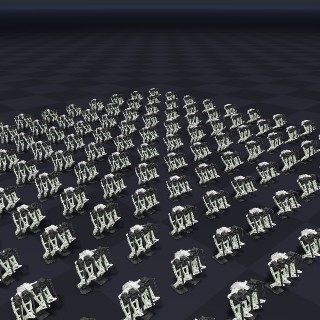
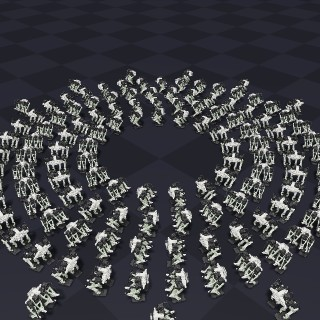
Make the DR Legs robots walk in rings
The ik_dr_legs robots now walk single file around concentric rings,
alternating planted and swinging feet. The cuNLS backend's cost
tolerance goes from 1e-12 to 1e-10 (about 10 um): robots a few meters
from the origin reach the float32 rounding of forward kinematics at the
tighter tolerance and kept iterating, which cost 47 ms instead of
6.5 ms for 128 walking robots.

diff --git a/newton/examples/ik/example_ik_dr_legs.py b/newton/examples/ik/example_ik_dr_legs.py
@@ -3,17 +3,19 @@
 
 """Example IK DR Legs (closed-loop biped legs)
 
-Whole-body inverse kinematics of DR Legs, a biped whose legs are serial-parallel linkages with
-three closed kinematic loops each, solved for a grid of robots in one batch.
+Whole-body inverse kinematics of DR Legs, a biped from Disney Research whose legs are
+serial-parallel linkages with three closed kinematic loops each, solved for many robots in one
+batch.
 - The asset's articulation tree reaches every body; six revolute joints close the loops.
-- The feet stay planted while the pelvis squats, sways and twists; the robots are staggered in
-  time.
+- The robots walk single file around concentric rings, neighboring rings in opposite
+  directions: IK places the pelvis along the ring and each foot on its footsteps, alternately
+  planted and swinging.
 - ``IKOptimizer.CUNLS`` keeps the loops closed (equality constraints) and the servos inside
   their limits (hard bounds); ``--optimizer lm`` uses Newton's default optimizer, which ignores
   loop-closing joints.
 
 Success criteria:
-- A grid of bipeds keeps its feet on the ground while each pelvis squats, sways and twists.
+- Rings of bipeds walk in circles, one behind the other, feet stepping on the ground.
 - All leg linkages stay connected.
 - With ``--optimizer lm``, the leg linkages come apart.
 
@@ -34,16 +36,44 @@ import newton
 import newton.examples
 import newton.ik as ik
 
-ROBOT_SPACING = 0.5  # [m]
 FOOT_SOLE = 0.018  # [m], depth of the sole below the foot frame
 
-# Pelvis motion around a crouch, relative to the pose the asset is loaded in (legs almost straight).
-CROUCH = 0.04  # [m]
-SQUAT_AMPLITUDE = 0.015  # [m]
-SWAY_AMPLITUDE = 0.02  # [m], sideways
-SURGE_AMPLITUDE = 0.015  # [m], forward and back
-TWIST_AMPLITUDE = 0.2  # [rad], about the vertical axis
-MOTION_RATE = 1.5  # [rad/s]
+# Rings: robots walk single file, ROBOT_GAP apart along each ring.
+FIRST_RING_RADIUS = 1.0  # [m]
+RING_GAP = 0.4  # [m]
+ROBOT_GAP = 0.35  # [m]
+
+# Gait, relative to the pose the asset is loaded in (legs almost straight).
+CROUCH = 0.04  # [m], pelvis height below the loaded pose
+WALK_SPEED = 0.08  # [m/s]
+GAIT_PERIOD = 0.8  # [s], each foot swings once per period
+STEP_HEIGHT = 0.02  # [m]
+
+
+def ring_layout(robot_count):
+    """Place the robots single file on concentric rings.
+
+    Returns the ring radius [m], starting angle [rad] and walking direction (+1 counterclockwise,
+    -1 clockwise) of each robot.
+    """
+    radius, angle, direction = [], [], []
+    ring = 0
+    while len(radius) < robot_count:
+        r = FIRST_RING_RADIUS + ring * RING_GAP
+        count = min(int(2.0 * math.pi * r / ROBOT_GAP), robot_count - len(radius))
+        radius += [r] * count
+        angle += list(2.0 * math.pi * np.arange(count) / count)
+        direction += [1.0 if ring % 2 == 0 else -1.0] * count
+        ring += 1
+    return np.array(radius), np.array(angle), np.array(direction)
+
+
+def yaw_quats(yaw):
+    """Quaternions (xyzw) of rotations by ``yaw`` [rad] about the vertical axis."""
+    q = np.zeros((len(yaw), 4), dtype=np.float32)
+    q[:, 2] = np.sin(0.5 * yaw)
+    q[:, 3] = np.cos(0.5 * yaw)
+    return q
 
 
 class Example:
@@ -67,91 +97,111 @@ class Example:
         self.pelvis = body_names.index("pelvis")
         self.feet = [body_names.index("foot_l"), body_names.index("foot_r")]
 
-        # The loaded pose is closed and stands on the feet: it defines the targets.
+        # In the loaded pose the robot faces +x, its loops are closed and its bodies are not
+        # rotated: the gait places the pelvis and feet at these offsets, turned along the ring.
         state = self.robot_model.state()
         newton.eval_fk(self.robot_model, self.robot_model.joint_q, self.robot_model.joint_qd, state)
         home = state.body_q.numpy()
-        self.pelvis_home = home[self.pelvis]
-        foot_poses = home[self.feet]
+        self.pelvis_offset = home[self.pelvis, :3] - np.array([0.0, 0.0, CROUCH])
+        self.foot_offsets = home[self.feet, :3]
 
         scene = newton.ModelBuilder()
         scene.replicate(robot, self.world_count)
-        scene.add_ground_plane(height=float(foot_poses[:, 2].min()) - FOOT_SOLE)
+        scene.add_ground_plane(height=float(self.foot_offsets[:, 2].min()) - FOOT_SOLE)
         self.model = scene.finalize()
         self.state = self.model.state()
 
+        # All robots share one space; the rings keep them apart.
+        self.ring_radius, self.ring_angle, self.ring_direction = ring_layout(self.world_count)
         self.viewer.set_model(self.model)
-        self.viewer.set_world_offsets((ROBOT_SPACING, ROBOT_SPACING, 0.0))
-        distance = 0.3 + 0.5 * ROBOT_SPACING * math.ceil(math.sqrt(self.world_count))
-        self.viewer.set_camera(pos=wp.vec3(distance, -distance, 0.05 + 0.5 * distance), pitch=-22.0, yaw=135.0)
+        self.viewer.set_world_offsets((0.0, 0.0, 0.0))
+        distance = 0.9 * self.ring_radius.max() + 0.8
+        self.viewer.set_camera(pos=wp.vec3(distance, -distance, 0.9 * distance), pitch=-35.0, yaw=135.0)
 
         # ------------------------------------------------------------------
-        # IK: pelvis pose, planted feet, servo limits; one problem per robot
+        # IK: pelvis and foot poses, servo limits; one problem per robot
         # ------------------------------------------------------------------
-        # Stagger the robots over one period of the motion.
-        self.time_offsets = 2.0 * math.pi / MOTION_RATE * np.arange(self.world_count) / self.world_count
-        self.pelvis_positions = np.zeros((self.world_count, 3), dtype=np.float32)
-        self.pelvis_rotations = np.zeros((self.world_count, 4), dtype=np.float32)
-        self.pelvis_pos_obj = ik.IKObjectivePosition(
-            link_index=self.pelvis,
-            link_offset=wp.vec3(0.0, 0.0, 0.0),
-            target_positions=wp.zeros(self.world_count, dtype=wp.vec3),
-        )
-        self.pelvis_rot_obj = ik.IKObjectiveRotation(
-            link_index=self.pelvis,
-            link_offset_rotation=wp.quat_identity(),
-            target_rotations=wp.zeros(self.world_count, dtype=wp.vec4),
-        )
-        foot_objectives = []
-        for foot, pose in zip(self.feet, foot_poses, strict=True):
-            foot_objectives.append(
-                ik.IKObjectivePosition(
-                    link_index=foot,
-                    link_offset=wp.vec3(0.0, 0.0, 0.0),
-                    target_positions=wp.array([pose[:3]] * self.world_count, dtype=wp.vec3),
-                )
+        def pose_objectives(link):
+            position = ik.IKObjectivePosition(
+                link_index=link,
+                link_offset=wp.vec3(0.0, 0.0, 0.0),
+                target_positions=wp.zeros(self.world_count, dtype=wp.vec3),
             )
-            foot_objectives.append(
-                ik.IKObjectiveRotation(
-                    link_index=foot,
-                    link_offset_rotation=wp.quat_identity(),
-                    target_rotations=wp.array([pose[3:]] * self.world_count, dtype=wp.vec4),
-                )
+            rotation = ik.IKObjectiveRotation(
+                link_index=link,
+                link_offset_rotation=wp.quat_identity(),
+                target_rotations=wp.zeros(self.world_count, dtype=wp.vec4),
             )
+            return position, rotation
+
+        self.pose_objectives = [pose_objectives(link) for link in (self.pelvis, *self.feet)]
         self.limit_obj = ik.IKObjectiveJointLimit(
             joint_limit_lower=self.robot_model.joint_limit_lower,
             joint_limit_upper=self.robot_model.joint_limit_upper,
         )
 
-        # Row i of joint_q holds the coordinates of world i.
-        self.joint_q = self.model.joint_q.reshape((self.world_count, self.robot_model.joint_coord_count))
         self.ik_iters = 30
         self.solver = ik.IKSolver(
             model=self.robot_model,
             n_problems=self.world_count,
-            objectives=[self.pelvis_pos_obj, self.pelvis_rot_obj, *foot_objectives, self.limit_obj],
+            objectives=[*(obj for pair in self.pose_objectives for obj in pair), self.limit_obj],
             optimizer=args.optimizer,
             jacobian_mode=ik.IKJacobianType.ANALYTIC,
         )
+
+        # Row i of joint_q holds the coordinates of world i. Start each robot (its free root:
+        # position, then rotation) at its place on the ring.
+        self.joint_q = self.model.joint_q.reshape((self.world_count, self.robot_model.joint_coord_count))
+        self.update_targets()
+        q = self.joint_q.numpy()
+        q[:, 0:3], q[:, 3:7] = self.target_positions[0], self.target_rotations[0]
+        self.joint_q.assign(q)
 
         self.tracking_errors = []
 
     # ----------------------------------------------------------------------
     # Helpers
     # ----------------------------------------------------------------------
+    def place_on_ring(self, arc, offset):
+        """Position [m] and heading [rad] of a point ``offset`` (forward, left, up) from the spot
+        ``arc`` [m] along each robot's ring, facing the walking direction."""
+        theta = self.ring_angle + self.ring_direction * arc / self.ring_radius
+        heading = np.stack([-np.sin(theta), np.cos(theta)], axis=1) * self.ring_direction[:, None]
+        left = np.stack([-heading[:, 1], heading[:, 0]], axis=1)
+        position = np.empty((self.world_count, 3), dtype=np.float32)
+        position[:, :2] = (
+            self.ring_radius[:, None] * np.stack([np.cos(theta), np.sin(theta)], axis=1)
+            + offset[0] * heading
+            + offset[1] * left
+        )
+        position[:, 2] = offset[2]
+        return position, theta + 0.5 * math.pi * self.ring_direction  # continuous: no jumps at +-pi
+
     def update_targets(self):
-        """Squat, sway, surge and twist each pelvis about a crouch above its planted feet."""
-        phase = MOTION_RATE * (self.sim_time + self.time_offsets)
-        self.pelvis_positions[:] = self.pelvis_home[:3]
-        self.pelvis_positions[:, 0] += SURGE_AMPLITUDE * np.sin(2.0 * phase)
-        self.pelvis_positions[:, 1] += SWAY_AMPLITUDE * np.sin(phase)
-        self.pelvis_positions[:, 2] += -CROUCH + SQUAT_AMPLITUDE * np.cos(2.0 * phase)
-        home_rotation = wp.quat(*self.pelvis_home[3:])
-        for i, angle in enumerate(TWIST_AMPLITUDE * np.sin(phase)):
-            twist = wp.quat_from_axis_angle(wp.vec3(0.0, 0.0, 1.0), float(angle))
-            self.pelvis_rotations[i] = wp.mul(twist, home_rotation)
-        self.pelvis_pos_obj.set_target_positions(wp.array(self.pelvis_positions, dtype=wp.vec3))
-        self.pelvis_rot_obj.set_target_rotations(wp.array(self.pelvis_rotations, dtype=wp.vec4))
+        """Advance the pelvis along the ring and step the feet: each foot stays planted for half a
+        gait period, then swings one stride forward in an arc."""
+        stride = WALK_SPEED * GAIT_PERIOD
+        positions, yaws = [], []
+        position, yaw = self.place_on_ring(WALK_SPEED * self.sim_time, self.pelvis_offset)
+        positions.append(position)
+        yaws.append(yaw)
+        for side, offset in enumerate(self.foot_offsets):
+            cycle = self.sim_time / GAIT_PERIOD + 0.5 * side  # the feet swing half a period apart
+            swing = min(max(2.0 * (cycle % 1.0) - 1.0, 0.0), 1.0)  # 0 while planted, 0 -> 1 in the swing
+            swing = swing * swing * (3.0 - 2.0 * swing)  # smooth start and stop
+            # Footsteps are one stride apart; on average each foot keeps pace with the pelvis.
+            arc = stride * (math.floor(cycle) + swing - 0.5 * side + 0.25)
+            lifted = offset + np.array([0.0, 0.0, STEP_HEIGHT * math.sin(math.pi * swing)])
+            position, yaw = self.place_on_ring(arc, lifted)
+            positions.append(position)
+            yaws.append(yaw)
+        self.target_positions = positions
+        self.target_rotations = [yaw_quats(yaw) for yaw in yaws]
+        for (position_obj, rotation_obj), position, rotation in zip(
+            self.pose_objectives, self.target_positions, self.target_rotations, strict=True
+        ):
+            position_obj.set_target_positions(wp.array(position, dtype=wp.vec3))
+            rotation_obj.set_target_rotations(wp.array(rotation, dtype=wp.vec4))
 
     def loop_gaps(self):
         """Distance [m] between the two frames of each loop-closing joint, in all worlds."""
@@ -185,13 +235,15 @@ class Example:
         q = self.joint_q.numpy()[:, 1:][:, limited]
         if not np.all((q >= lower[limited] - 1e-5) & (q <= upper[limited] + 1e-5)):
             raise ValueError("A servo left its joint limits")
-        pelvis = self.state.body_q.numpy()[self.pelvis :: self.robot_model.body_count, :3]
-        self.tracking_errors.extend(np.linalg.norm(pelvis - self.pelvis_positions, axis=1))
+        body_q = self.state.body_q.numpy()
+        for link, target in zip((self.pelvis, *self.feet), self.target_positions, strict=True):
+            position = body_q[link :: self.robot_model.body_count, :3]
+            self.tracking_errors.extend(np.linalg.norm(position - target, axis=1))
 
     def test_final(self):
         worst = max(self.tracking_errors)
         if worst > 1e-3:
-            raise ValueError(f"A pelvis missed its target by {worst * 1e3:.2f} mm, expected at most 1 mm")
+            raise ValueError(f"A pelvis or foot missed its target by {worst * 1e3:.2f} mm, expected at most 1 mm")
 
     def render(self):
         self.viewer.begin_frame(self.sim_time)

diff --git a/newton/_src/sim/ik/ik_cunls_optimizer.py b/newton/_src/sim/ik/ik_cunls_optimizer.py
@@ -346,7 +346,9 @@ class IKOptimizerCuNLS:
             lm = pycunls.LevenbergMarquardtMinimizerOptions()
             base = lm.base_options
             base.max_num_iterations = iterations
-            base.cost_tolerance = 1.0e-12  # absolute: residuals are meters and radians
+            # Absolute: residuals are meters and radians, so this stops at about 10 um. Much tighter
+            # sits at the float32 rounding of forward kinematics a few meters from the origin.
+            base.cost_tolerance = 1.0e-10
             base.state_tolerance = 1.0e-10
             base.reuse_structure = True
             lm.base_options = base
